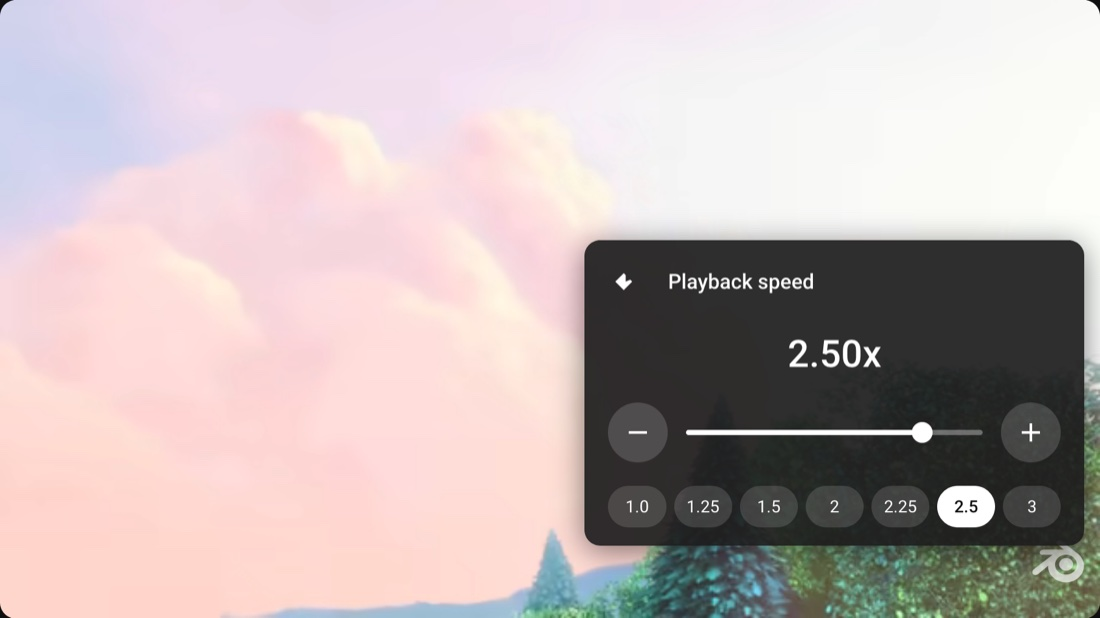
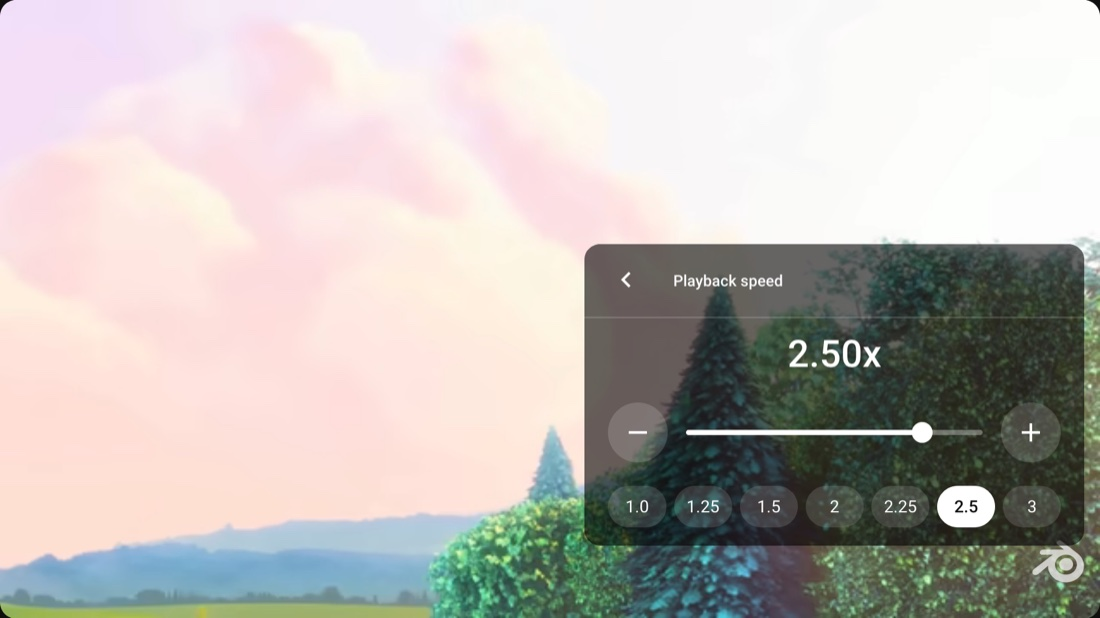
Fix the four nitpicks found in manual testing
1. Alt+ArrowDown scrolled the page as well as slowing playback. The content
   script now cancels the default action for Alt+Up/Alt+Down (the browser
   command still fires); a plain ArrowDown still scrolls, so page scrolling is
   unaffected otherwise.

2. The gear-menu row was a hand-built lookalike: no chevron and its value did
   not line up with the other rows. It is now a clone of YouTube's own speed
   row, so icon cell, chevron, cell widths and hover behaviour are identical
   (verified: height 48, label left 56px, content flush right, same as the
   Quality row). The clone drops the yt3x-hidden/aria-hidden state it would
   otherwise inherit from the row it replaces.

3. The panel did not match YouTube's styling:
   - background is now rgba(0, 0, 0, 0.6) with no blur or shadow, like the
     player's settings menu (was rgba(28,28,28,0.92) + blur);
   - the back button uses YouTube's own 32x32 chevron in a 48x48 hit area
     instead of a mis-scaled 24px Material path;
   - the header is 57px tall with YouTube's 1px rgba(255,255,255,0.2) separator
     and its 12px/500 title.

4. The row leaked into other sub-menus: YouTube reuses the same panel element
   for Quality/Subtitles/etc., so our row was re-injected into them. The sync
   now bails out (and removes its row) whenever a sub-menu header is visible,
   and a second observer scoped to the settings menu catches the class/style
   flips of panel transitions, so the row reliably returns to the root panel.
[…]

diff --git a/3xYouTube/firefox/content.js b/3xYouTube/firefox/content.js
@@ -90,7 +90,6 @@ browser.runtime.onMessage.addListener(async (request) => {
 // ---------------------------------------------------------------------------
 
 const SVG_NS = "http://www.w3.org/2000/svg";
-const ICON_BACK = "M15.41 7.41 14 6l-6 6 6 6 6-6-1.41-1.41L15.41 12z";
 const ICON_MINUS = "M19 13H5v-2h14v2z";
 const ICON_PLUS = "M19 13h-6v6h-2v-6H5v-2h6V5h2v6h6v2z";
 
@@ -106,6 +105,9 @@ function createElement(tag, props = {}, children = []) {
     for (const child of children) el.append(child);
     return el;
 }
+
+// YouTube's own back-button background, copied so the chevron matches exactly.
[1 lines of base64/hex data omitted]
 
 function createIcon(pathData, size = 24) {
     const svg = document.createElementNS(SVG_NS, "svg");
@@ -187,7 +189,8 @@ function buildPanel() {
 
     const back = createElement("button", {
         class: "yt3x-back", type: "button", attrs: { "aria-label": "Back" },
-    }, [createIcon(ICON_BACK, 26)]);
+    });
+    back.style.backgroundImage = `url("${BACK_ARROW_SVG}")`;
     back.addEventListener("click", () => closePanel());
 
     const title = createElement("span", { class: "yt3x-title", text: panelTitle });
@@ -311,16 +314,30 @@ function isSpeedRow(row) {
     return SPEED_ROW_LABEL.test(label);
 }
 
-function buildSettingsItem() {
-    return createElement("div", {
-        class: "ytp-menuitem",
-        id: "yt3x-menuitem",
-        attrs: { role: "menuitem", tabindex: "0" },
-    }, [
-        createElement("div", { class: "ytp-menuitem-icon" }),
-        createElement("div", { class: "ytp-menuitem-label", text: panelTitle }),
-        createElement("div", { class: "ytp-menuitem-content", text: "Normal" }),
-    ]);
+// Cloning YouTube's own row keeps its icon, chevron, cell widths and hover
+// behaviour identical; only the label and value are replaced.
+function buildSettingsItem(nativeRow) {
+    const row = nativeRow
+        ? nativeRow.cloneNode(true)
+        : createElement("div", { class: "ytp-menuitem", attrs: { role: "menuitem", tabindex: "0" } }, [
+            createElement("div", { class: "ytp-menuitem-icon" }),
+            createElement("div", { class: "ytp-menuitem-label" }),
+            createElement("div", { class: "ytp-menuitem-content" }),
+        ]);
+
+    row.id = "yt3x-menuitem";
+    // the source row is hidden before it is cloned, so undo that on the copy
+    row.classList.remove("yt3x-hidden");
+    row.removeAttribute("aria-hidden");
+    row.setAttribute("role", "menuitem");
+    row.setAttribute("aria-haspopup", "true");
+    row.setAttribute("tabindex", "0");
+
+    const label = row.querySelector(".ytp-menuitem-label");
+    if (label) label.textContent = panelTitle;
+    const content = row.querySelector(".ytp-menuitem-content");
+    if (content) content.textContent = "Normal";
+    return row;
 }
 
 function attachSettingsItemHandlers(item) {
@@ -343,7 +360,18 @@ function syncSettingsItem() {
     const menu = nativeSettingsMenu();
     if (!menu) return;
 
+    watchSettingsMenu(menu);
     ensurePanel();
+
+    // YouTube reuses the very same panel when a sub-menu (Quality, Subtitles,
+    // ...) opens, so we must stay out of it: drop our row and bail out.
+    const submenuOpen = [...menu.querySelectorAll(".ytp-panel-header")]
+        .some((header) => header.offsetHeight > 0);
+    if (submenuOpen) {
+        for (const stale of menu.querySelectorAll("#yt3x-menuitem")) stale.remove();
+        settingsItem = null;
+        return;
+    }
 
     const root = menu.querySelector(".ytp-panel-menu");
     if (!root) return;
@@ -361,7 +389,7 @@ function syncSettingsItem() {
     if (existing) {
         settingsItem = existing;
     } else {
-        settingsItem = buildSettingsItem();
+        settingsItem = buildSettingsItem(nativeRow);
         attachSettingsItemHandlers(settingsItem);
         if (nativeRow) nativeRow.parentNode.insertBefore(settingsItem, nativeRow);
         else root.append(settingsItem);
@@ -402,6 +430,18 @@ const menuObserver = new MutationObserver((records) => {
 });
 menuObserver.observe(document.documentElement, { childList: true, subtree: true });
 
+// Opening/closing a sub-menu only flips classes and inline styles on the panel,
+// which produces no childList mutations, so the menu element is watched too.
+const menuStateObserver = new MutationObserver(() => scheduleSync());
+let menuStateTarget = null;
+
+function watchSettingsMenu(menu) {
+    if (menu === menuStateTarget) return;
+    menuStateObserver.disconnect();
+    menuStateObserver.observe(menu, { childList: true, subtree: true, attributes: true, attributeFilter: ["class", "style", "aria-hidden"] });
+    menuStateTarget = menu;
+}
+
 // The player hides its controls after a moment of inactivity; do not leave the
 // panel floating over a hidden control bar.
 const autohideObserver = new MutationObserver(() => {
@@ -428,6 +468,13 @@ document.addEventListener("keydown", (event) => {
     if (event.key === "Escape" && panel && !panel.hidden) {
         event.stopPropagation();
         closePanel();
+        return;
+    }
+    // The shortcuts are handled by the browser (see background.js); cancelling
+    // the default here stops the page from scrolling at the same time.
+    if (event.altKey && !event.ctrlKey && !event.metaKey && !event.shiftKey
+        && (event.key === "ArrowUp" || event.key === "ArrowDown")) {
+        event.preventDefault();
     }
 }, true);
 

diff --git a/3xYouTube/firefox/player.css b/3xYouTube/firefox/player.css
@@ -5,26 +5,24 @@
     display: none !important;
 }
 
-/* Shared surface for the panel and the transient readout: dark, rounded,
-   blurred, matching the player's own overlays. */
 #yt3x-panel,
 #yt3x-osd {
-    border-radius: 12px;
-    background: rgba(28, 28, 28, 0.92);
-    backdrop-filter: blur(12px);
     color: #fff;
     font-family: Roboto, Arial, sans-serif;
     line-height: 1.2;
 }
 
+/* YouTube's settings menu is rgba(0,0,0,0.6) with no blur or shadow; the panel
+   matches it so it reads as part of the same menu. */
 #yt3x-panel {
     position: absolute;
     right: 12px;
     bottom: 56px;
     z-index: 72;
     width: 384px;
-    padding: 8px 0 14px;
-    box-shadow: 0 4px 24px rgba(0, 0, 0, 0.5);
+    padding: 0 0 14px;
+    border-radius: 12px;
+    background: rgba(0, 0, 0, 0.6);
     font-size: 15px;
     text-align: left;
     direction: ltr;
@@ -43,32 +41,38 @@
 .yt3x-header {
     display: flex;
     align-items: center;
-    gap: 16px;
-    padding: 4px 16px 8px;
+    gap: 12px;
+    box-sizing: border-box;
+    height: 57px;
+    padding: 0 12px 0 8px;
+    border-bottom: 1px solid rgba(255, 255, 255, 0.2);
 }
 
 .yt3x-back {
-    display: flex;
-    align-items: center;
-    justify-content: center;
-    width: 40px;
-    height: 40px;
-    margin-left: -8px;
+    flex: 0 0 auto;
+    width: 48px;
+    height: 48px;
     padding: 0;
     border: 0;
     border-radius: 50%;
-    background: none;
+    background: transparent no-repeat center / 32px 32px;
     color: inherit;
     cursor: pointer;
 }
 
 .yt3x-back:hover {
-    background: rgba(255, 255, 255, 0.1);
+    background-color: rgba(255, 255, 255, 0.1);
+}
+
+.yt3x-back:focus-visible {
+    outline: 2px solid #fff;
+    outline-offset: -2px;
 }
 
 .yt3x-title {
-    font-size: 16px;
+    font-size: 12px;
     font-weight: 500;
+    line-height: 1.2;
 }
 
 .yt3x-value {
@@ -201,12 +205,14 @@
     top: 12%;
     left: 50%;
     z-index: 71;
+    border-radius: 12px;
+    background: rgba(28, 28, 28, 0.9);
+    backdrop-filter: blur(12px);
     display: flex;
     flex-direction: column;
     align-items: center;
     gap: 2px;
     padding: 12px 26px 14px;
-    box-shadow: 0 4px 20px rgba(0, 0, 0, 0.45);
     transform: translateX(-50%);
     pointer-events: none;
     opacity: 0;
